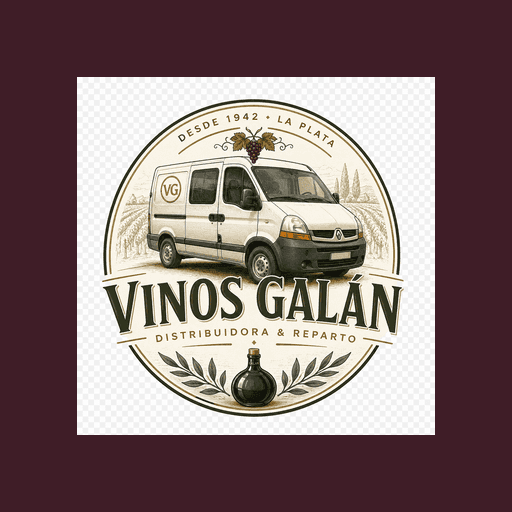
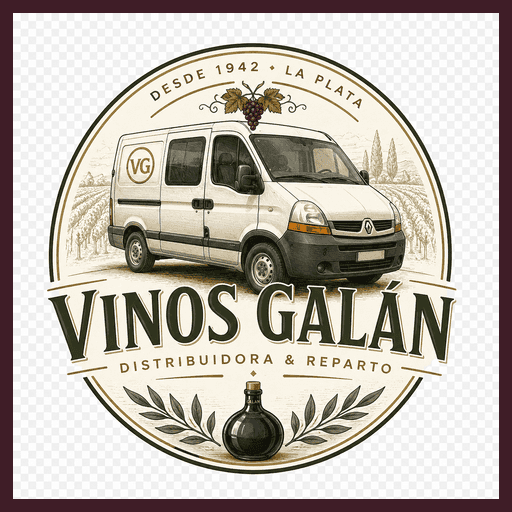
fix(viajes): sincronizar día↔fecha + íconos APK más grandes
Viajes:
- Al elegir un día de la semana, la fecha del input se actualiza al
  próximo día que cae (incluyendo hoy si coincide).
- Al cambiar la fecha del input, el día seleccionado se actualiza al
  día de la semana que corresponde a esa fecha.
- Sin loops: ambos updates son explícitos en los handlers (no useEffect).

Íconos PWA/APK:
- Reducido el padding de los íconos maskable y apple de 0.3 a 0.05
  para que el logo ocupe casi todo el cuadrado en vez de quedar como un
  círculo chico flotando en bordó.
- El logo se ve ahora a un tamaño comparable al resto de los íconos
  del launcher de Android. El bordó queda solo en las esquinas
  (recortadas igual por los launchers adaptables).

diff --git a/frontend/src/pages/Viajes.tsx b/frontend/src/pages/Viajes.tsx
@@ -12,6 +12,22 @@ import {
 const fmt = (iso: string) => new Date(iso + 'T00:00:00').toLocaleDateString('es-AR', { weekday: 'short', day: '2-digit', month: 'short', year: 'numeric' })
 const fmtCorto = (iso: string) => new Date(iso + 'T00:00:00').toLocaleDateString('es-AR', { day: '2-digit', month: 'short' })
 
+const DIA_POR_INDEX: DiaSemana[] = ['DOMINGO','LUNES','MARTES','MIERCOLES','JUEVES','VIERNES','SABADO']
+/** Devuelve la próxima fecha (incluido hoy) que cae en el día de la semana indicado. */
+function proximaFechaDelDia(dia: DiaSemana, desde = new Date()): string {
+  const objetivoIdx = DIA_POR_INDEX.indexOf(dia)
+  const hoyIdx = desde.getDay()
+  const diff = (objetivoIdx - hoyIdx + 7) % 7  // 0 = hoy, 1 = mañana, ..., 6 = en 6 días
+  const target = new Date(desde)
+  target.setDate(desde.getDate() + diff)
+  return target.toISOString().slice(0, 10)
+}
+/** Devuelve el DiaSemana correspondiente a una fecha YYYY-MM-DD. */
+function diaSemanaDeFecha(iso: string): DiaSemana {
+  const idx = new Date(iso + 'T00:00:00').getDay()
+  return DIA_POR_INDEX[idx]
+}
+
 /** Pedido: clienteId → vinoId → cantidad */
 type Pedido = Record<number, Record<number, number>>
 /** Extras del viaje: vinoId → cantidad (productos sueltos sin cliente) */
@@ -29,6 +45,19 @@ export default function Viajes() {
   const [extras, setExtras] = useState<Extras>({})
   const [clienteActivoId, setClienteActivoId] = useState<number | null>(null)
   const [fecha, setFecha] = useState(new Date().toISOString().slice(0, 10))
+
+  // Sincronización día↔fecha
+  const elegirDia = (d: DiaSemana) => {
+    setDiaSel(d)
+    setFecha(proximaFechaDelDia(d))
+    setClienteActivoId(null)
+  }
+  const elegirFecha = (nuevaFecha: string) => {
+    if (!nuevaFecha) return
+    setFecha(nuevaFecha)
+    setDiaSel(diaSemanaDeFecha(nuevaFecha))
+    setClienteActivoId(null)
+  }
   const [busqCli, setBusqCli] = useState('')
   const [busqVino, setBusqVino] = useState('')
   const [busqExtra, setBusqExtra] = useState('')
@@ -221,7 +250,7 @@ export default function Viajes() {
           <input
             type="date"
             value={fecha}
-            onChange={e => setFecha(e.target.value)}
+            onChange={e => elegirFecha(e.target.value)}
             className="input !py-1.5 text-sm w-auto"
           />
         </div>
@@ -236,7 +265,7 @@ export default function Viajes() {
             return (
               <button
                 key={d}
-                onClick={() => { setDiaSel(d); setClienteActivoId(null) }}
+                onClick={() => elegirDia(d)}
                 className={`px-4 py-2.5 rounded-xl text-sm font-bold whitespace-nowrap transition flex items-center gap-2 border-2 ${
                   activo
                     ? 'bg-botella-700 text-white border-botella-700 shadow-md'

diff --git a/frontend/pwa-assets.config.ts b/frontend/pwa-assets.config.ts
@@ -1,17 +1,25 @@
 import { defineConfig, minimal2023Preset } from '@vite-pwa/assets-generator/config'
 
+/**
+ * Genera los íconos del PWA/APK a partir de logo-vg.png.
+ *
+ * Padding chico (0.05) para que el logo ocupe casi todo el cuadrado y se vea
+ * grande en el home de Android (comparable a los otros íconos del launcher).
+ * El background bordó (#3f1d27) llena las esquinas — los launchers adaptables
+ * lo recortan automáticamente al aplicar la shape del sistema (círculo/squircle).
+ */
 export default defineConfig({
   headLinkOptions: { preset: '2023' },
   preset: {
     ...minimal2023Preset,
     maskable: {
       sizes: [512],
-      padding: 0.3,
+      padding: 0.05,
       resizeOptions: { background: '#3f1d27', fit: 'contain' },
     },
     apple: {
       sizes: [180],
-      padding: 0.3,
+      padding: 0.05,
       resizeOptions: { background: '#3f1d27', fit: 'contain' },
     },
   },
